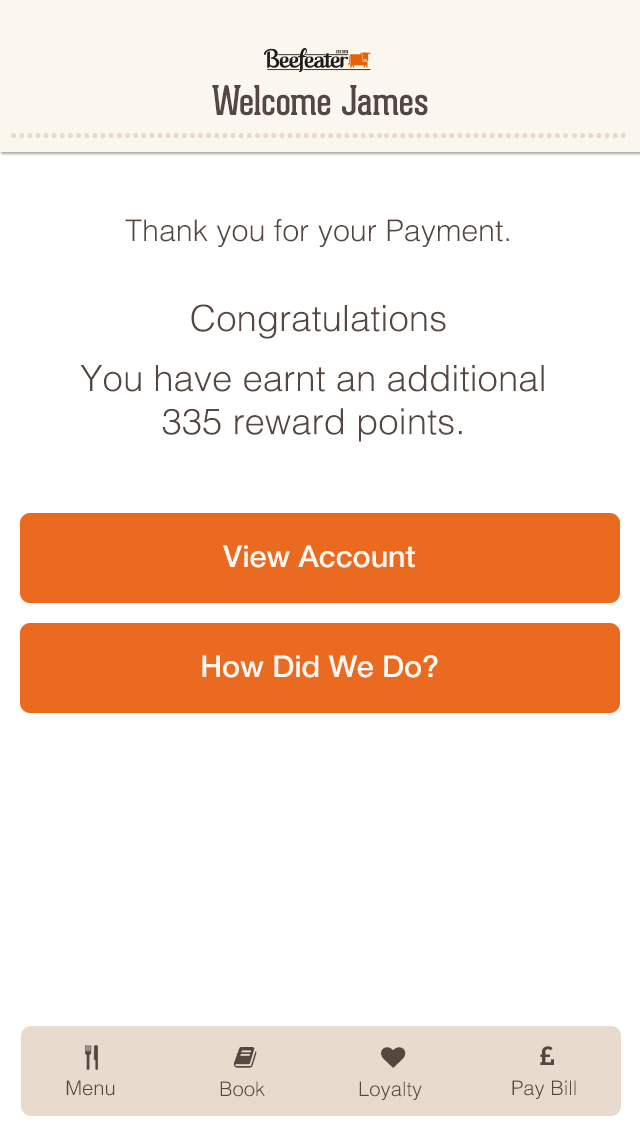
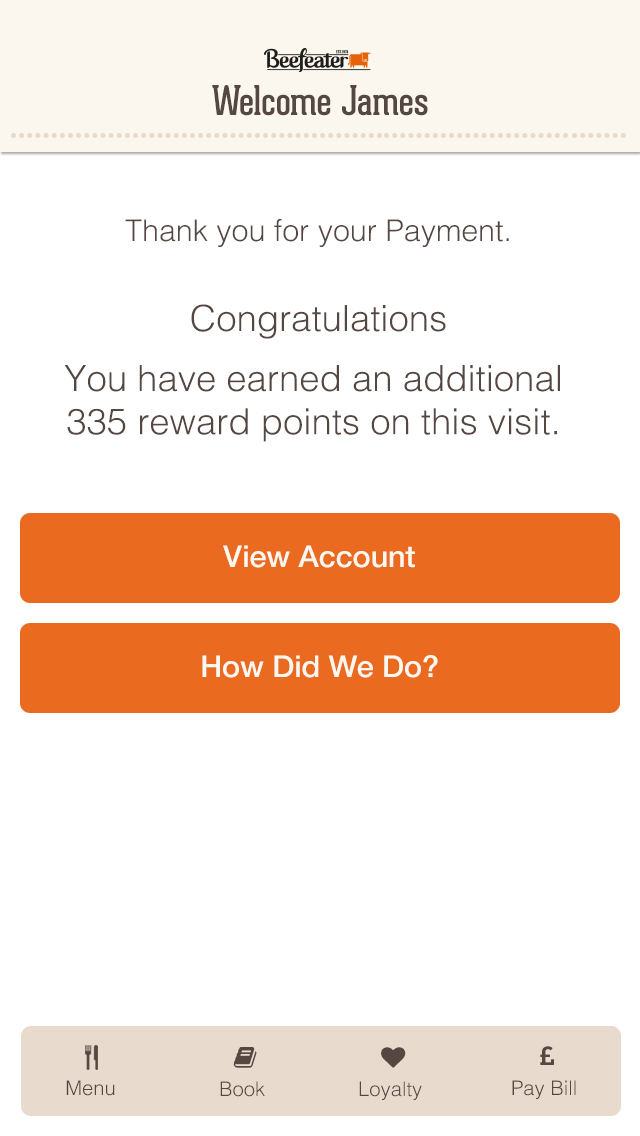
Adding all the things

Changed region(s): [[0.0938, 0.3081, 0.875, 0.4005]]

diff --git a/flow6index.html b/flow6index.html
@@ -8,9 +8,9 @@
 
 <body>
 <div>
-		<img src="images/FLOW6-Payment-iPhone-Congrats-you-ve-earnt-X-points.jpg" usemap="#Map"/>
+		<img src="imagesFLOW6-Payment-iPhone-Break-down-of-bill-no-discount.jpg" usemap="#Map"/>
         <map name="Map">
-          <area shape="rect" coords="6,4,315,564" href="01-FLOW6-Payment-iPhone-User-Redeeming-Points.html">
+          <area shape="rect" coords="6,4,315,564" href="01-FLOW6-Payment-iPhone-Congrats-you-ve-earnt-X-points.html">
         </map>
 
     </div>

diff --git a/index.html b/index.html
@@ -9,9 +9,9 @@
 <body>
     <div>
     <ul>
-    	<li><a href="flowindex.html">whitbread-FLOW01</a></li><br><br>
-       <li><a href="flow6index.html">whitbread-FLOW06</a></li><br><br>
-       <li><a href="flow7index.html">whitbread-FLOW07</a></li>
+    	<li><a href="flow1index.html">whitbread-FLOW01</a></li><br><br>
+      <li><a href="flow6index.html">whitbread-FLOW06</a></li><br><br>
+      <li><a href="flow7index.html">whitbread-FLOW07</a></li>
     </ul>
     </div>
 </body>

diff --git a/01-FLOW6-Payment-iPhone-Congrats-you-ve-earnt-X-points.html b/01-FLOW6-Payment-iPhone-Congrats-you-ve-earnt-X-points.html
@@ -1,0 +1,17 @@
+<!doctype html>
+<html>
+<head>
+<meta charset="UTF-8">
+<title>FLOW6-Payment-iPhone-Break-down-of-bill</title>
+<link rel="stylesheet" href="css/style.css">
+</head>
+
+<body>
+    <div>
+		<img src="imagesFLOW6-Payment-iPhone-Congrats-you-ve-earnt-X-points.jpg" usemap="#Map"/>
+        <map name="Map">
+          <area shape="rect" coords="0,-1,645,1136" href="02-FLOW6-Payment-iPhone-User-Redeeming-Points.html">
+        </map>
+    </div>
+</body>
+</html>

diff --git a/03-FLOW6-Payment-iPhone-Break-down-of-bill.html b/03-FLOW6-Payment-iPhone-Break-down-of-bill.html
@@ -1,0 +1,17 @@
+<!doctype html>
+<html>
+<head>
+<meta charset="UTF-8">
+<title>FLOW6-Payment-iPhone-Break-down-of-bill</title>
+<link rel="stylesheet" href="css/style.css">
+</head>
+
+<body>
+    <div>
+		<img src="imagesFLOW6-Payment-iPhone-Break-down-of-bill.jpg" usemap="#Map"/>
+        <map name="Map">
+          <area shape="rect" coords="0,-1,645,1136" href="04-FLOW6-Payment-iPhone-Congrats-you-ve-earnt-X-points.html">
+        </map>
+    </div>
+</body>
+</html>

diff --git a/02-FLOW6-Payment-iPhone-User-Redeeming-Points.html b/02-FLOW6-Payment-iPhone-User-Redeeming-Points.html
@@ -1,0 +1,18 @@
+<!doctype html>
+<html>
+<head>
+<meta charset="UTF-8">
+<title>FLOW6-Payment-iPhone-User-Redeeming-Points</title>
+<link rel="stylesheet" href="css/style.css">
+</head>
+
+<body>
+    <div>
+		<img src="imagesFLOW6-Payment-iPhone-User-Redeeming-Points.jpg" usemap="#Map"/>
+        <map name="Map">
+          <area shape="rect" coords="6,4,315,564" href="03-FLOW6-Payment-iPhone-Break-down-of-bill.html">
+        </map>
+
+    </div>
+</body>
+</html>

diff --git a/flow1index.html b/flow1index.html
@@ -1,0 +1,18 @@
+<!doctype html>
+<html>
+<head>
+<meta charset="UTF-8">
+<title>FLOW1-Booking-iPhone-Promo-Offer</title>
+<link rel="stylesheet" href="css/style.css">
+</head>
+
+<body>
+<div>
+		<img src="imagesFLOW1-Booking-iPhone-Promo-Offer.jpg" usemap="#Map"/>
+        <map name="Map">
+          <area shape="rect" coords="-1,1,640,1134" href="01-FLOW1-Booking-iPhone-Select-location.html">
+        </map>
+    </div>
+</body>
+
+</html>

diff --git a/04-FLOW6-Payment-iPhone-Congrats-you-ve-earnt-X-points.html b/04-FLOW6-Payment-iPhone-Congrats-you-ve-earnt-X-points.html
@@ -1,0 +1,18 @@
+<!doctype html>
+<html>
+<head>
+<meta charset="UTF-8">
+<title>FLOW6-Payment-iPhone-You-have-X-points</title>
+<link rel="stylesheet" href="css/style.css">
+</head>
+
+<body>
+    <div>
+		<img src="imagesFLOW6-Payment-iPhone-You-have-X-points.jpg" usemap="#Map"/>
+        <map name="Map">
+          <area shape="rect" coords="5,5,315,563" href="../index.html">
+        </map>
+ 
+    </div>
+</body>
+</html>

diff --git a/04-FLOW1-Booking-iPhone-Calendar-Book-Now-session-selection.html b/04-FLOW1-Booking-iPhone-Calendar-Book-Now-session-selection.html
@@ -8,7 +8,7 @@
 
 <body>
     <div>
-		<img src="images/FLOW1-Booking-iPhone-Calendar-Book-Now-session-selection.jpg" usemap="#Map"/>
+		<img src="imagesFLOW1-Booking-iPhone-Calendar-Book-Now-session-selection.jpg" usemap="#Map"/>
         <map name="Map">
           <area shape="rect" coords="5,5,315,563" href="05-FLOW1-Booking-iPhone-Calendar-Book-Now-02.html">
         </map>

diff --git a/03-FLOW1-Booking-iPhone-Calendar-Book-Now-01.html b/03-FLOW1-Booking-iPhone-Calendar-Book-Now-01.html
@@ -8,7 +8,7 @@
 
 <body>
     <div>
-		<img src="images/FLOW1-Booking-iPhone-Calendar-Book-Now-01.jpg" usemap="#Map"/>
+		<img src="imagesFLOW1-Booking-iPhone-Calendar-Book-Now-01.jpg" usemap="#Map"/>
         <map name="Map">
           <area shape="rect" coords="5,5,315,563" href="04-FLOW1-Booking-iPhone-Calendar-Book-Now-session-selection.html">
         </map>

diff --git a/02-FLOW7-Support-iPhone-Feedback-queston3.html b/02-FLOW7-Support-iPhone-Feedback-queston3.html
@@ -8,7 +8,7 @@
 
 <body>
     <div>
-		<img src="images/FLOW7-Support-iPhone-Feedback-queston3.jpg" usemap="#Map"/>
+		<img src="imagesFLOW7-Support-iPhone-Feedback-queston3.jpg" usemap="#Map"/>
         <map name="Map">
           <area shape="rect" coords="0,-1,645,1136" href="03-FLOW7-Support-iPhone-Thank-your-for-taking-part-in-survey.html">
         </map>

diff --git a/05-FLOW1-Booking-iPhone-Calendar-Book-Now-02.html b/05-FLOW1-Booking-iPhone-Calendar-Book-Now-02.html
@@ -8,7 +8,7 @@
 
 <body>
     <div>
-		<img src="images/FLOW1-Booking-iPhone-Calendar-Book-Now-02.jpg" usemap="#Map"/>
+		<img src="imagesFLOW1-Booking-iPhone-Calendar-Book-Now-02.jpg" usemap="#Map"/>
         <map name="Map">
           <area shape="rect" coords="5,5,315,563" href="06-FLOW1-Booking-iPhone-Calendar-Book-Now-03.html">
         </map>

diff --git a/03-FLOW7-Support-iPhone-Thank-your-for-taking-part-in-survey.html b/03-FLOW7-Support-iPhone-Thank-your-for-taking-part-in-survey.html
@@ -8,7 +8,7 @@
 
 <body>
     <div>
-		<img src="images/FLOW7-Support-iPhone-Thank-your-for-taking-part-in-survey.jpg" usemap="#Map"/>
+		<img src="imagesFLOW7-Support-iPhone-Thank-your-for-taking-part-in-survey.jpg" usemap="#Map"/>
         <map name="Map">
           <area shape="rect" coords="6,5,640,1132" href="../index.html">
         </map>
